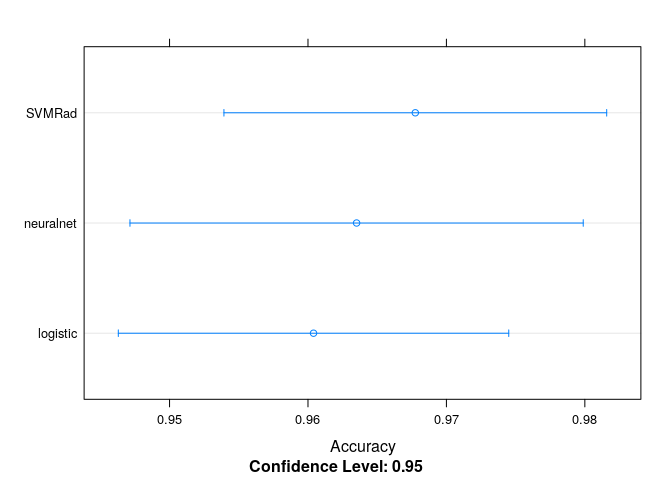
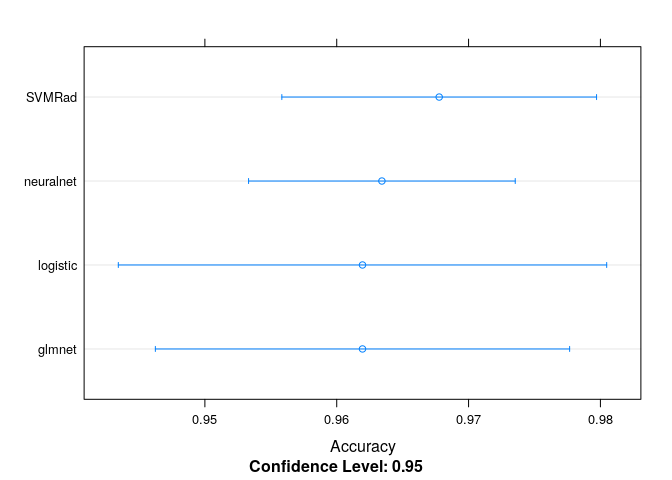
glmnetresults

diff --git a/source/Caret.md b/source/Caret.md
@@ -6,6 +6,7 @@ Jesse Cambon
 -   [References](#references)
 -   [Setup](#setup)
 -   [Build Model](#build-model)
+-   [Glmnet (Elastic Net) Model](#glmnet-elastic-net-model)
 
 Demonstrate a machine learning workflow with caret
 
@@ -13,24 +14,28 @@ References
 ----------
 
 -   <https://topepo.github.io/caret/model-training-and-tuning.html>
+-   <https://cran.r-project.org/web/packages/caretEnsemble/vignettes/caretEnsemble-intro.html>
 
 Setup
 -----
 
 ``` r
+library(mlbench) # machine learning reference datasets
 library(tidyverse)
-#library(broom)
-library(knitr)
-library(kableExtra)
+library(broom)
 library(caret)
 library(skimr)
+library(knitr)
+library(kableExtra)
+
+# Set seed for reproducibility
+set.seed(45)
 ```
 
 Build Model
 -----------
 
 ``` r
-library(mlbench) # machine learning reference datasets
 data(BreastCancer)
 
 skim(BreastCancer)
@@ -40,19 +45,19 @@ BC <- BreastCancer %>% as_tibble() %>%
   drop_na() # should really use imputation but we'll do this for now
 
 # Use k-fold cross-validation
-TC <- trainControl(method="cv", number=10)
+control <- trainControl(method="cv", number=10)
 
 # Neural Network
 nnet <- train(Class ~ .,  # decide out outcome variable
                BC, # our dataset
-               trControl=TC,
+               trControl=control,
                method='nnet')
 nnet
 
 # SVM Radial
-svmRad <- train(Class ~ .,  # decide out outcome variable
-               BC, # our dataset
-               trControl=TC,
+svmRad <- train(Class ~ .,  
+               BC, 
+               trControl=control,
                method='svmRadial')
 
 svmRad
@@ -60,27 +65,89 @@ svmRad
 # Bayesian Logistic Regression
 logistic <- train(Class ~ .,  # decide out outcome variable
                BC, # our dataset
-               trControl=TC,
+               trControl=control,
                method='bayesglm')
 
 logistic
+
+glmnet <- train(Class ~ .,  
+               BC, 
+               trControl=control,
+               method='glmnet')
+
+glmnet
+```
+
+``` r
+# Look at results of Glmnet model
+
+glmOptLambda <- glmnet$finalModel$lambdaOpt
+
+# Extract coefficients from optimal model
+glm_coeff1 <- coef(glmnet$finalModel,glmOptLambda) %>% 
+  as.matrix() %>% as.data.frame() %>%
+  rownames_to_column('Variable') %>%
+  as_tibble() %>%
+  rename(Coefficient=2) %>%
+  arrange(desc(abs(Coefficient)))
+
+
+# glmterms <- tidy(glmnet$finalModel) %>%
+#   # Pick closest model to optimal lambda
+#   filter(abs(lambda - glmOptLambda) == min(abs(lambda-glmOptLambda))) %>%
+#   arrange(desc(estimate)) 
+
+# Combine variable importance data with coefficients
+varImportance <- varImp(glmnet)$importance %>% 
+  rownames_to_column('Variable') %>%
+  rename(Importance=2) %>%
+  arrange(desc(Importance)) %>%
+  full_join(glm_coeff1,by='Variable') %>%
+  filter(Coefficient != 0) 
 ```
 
 ``` r
 resamps <- resamples(list(neuralnet=nnet,
                           SVMRad=svmRad,
-                          logistic=logistic))
-#resamps
+                          logistic=logistic,
+                          glmnet=glmnet))
 
-#'svmLinear','nnet','svmRadial'
-
+# Accuracy comparison
 dotplot(resamps, metric = "Accuracy")
 ```
 
 ![](Caret_files/figure-markdown_github/results-1.png)
 
 ``` r
+# Difference in accuracy
 bwplot(diff(resamps))
 ```
 
 ![](Caret_files/figure-markdown_github/results-2.png)
+
+Glmnet (Elastic Net) Model
+--------------------------
+
+``` r
+kable(varImportance,format='markdown') %>%
+  kable_styling(bootstrap_options = c("striped",'border'))
+```
+
+| Variable        |   Importance|  Coefficient|
+|:----------------|------------:|------------:|
+| Cl.thickness.L  |  100.0000000|    1.4334465|
+| Cell.shape.L    |   98.9959241|    1.4190536|
+| Cell.size.L     |   96.0999432|    1.3775413|
+| Marg.adhesion.L |   59.9424497|    0.8592429|
+| Epith.c.size.L  |   58.7994816|    0.8428591|
+| Cell.shape.Q    |   53.8521328|   -0.7719415|
+| Bare.nuclei10   |   48.7846527|    0.6993019|
+| Cell.size.Q     |   45.8138944|   -0.6567177|
+| Cell.size.C     |   20.4244327|    0.2927733|
+| Epith.c.size^5  |   19.8534568|   -0.2845887|
+| Epith.c.size.Q  |   12.7810786|   -0.1832099|
+| Epith.c.size^4  |    6.4488341|    0.0924406|
+| Marg.adhesion.Q |    1.2788000|   -0.0183309|
+| Cell.shape.C    |    0.8378617|    0.0120103|
+| Bl.cromatin7    |    0.3533834|    0.0050656|
+| (Intercept)     |           NA|    0.7439187|
